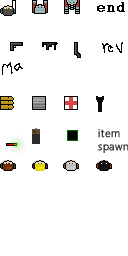
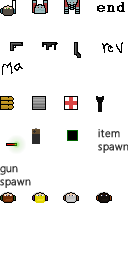
Added GunSpawn entity, tweaked item spawns

diff --git a/js/gunspawn.js b/js/gunspawn.js
@@ -1,23 +1,22 @@
-function ItemSpawn(x, y) {
+function GunSpawn(x, y) {
 	this.x = x;
 	this.y = y;
 	this.lastUpdate = 0;
-	this.spawnRate = 40;
+	this.spawnRate = 45;
 	Game.entities.push(this);
 }
 
-ItemSpawn.prototype.render = function() {
+GunSpawn.prototype.render = function() {
 
 };
 
-ItemSpawn.prototype.update = function() {
+GunSpawn.prototype.update = function() {
 	if ((this.lastUpdate - getCurrentMs()) < -this.spawnRate) {
 		var canSpawn = true;
 		for (var i = 0; i < Game.entities.length; i++) {
-			if (Game.entities[i] instanceof Item) {
-				if (!Game.entities[i].pickedUp) {
+			if (Game.entities[i] instanceof Gun) {
+				if (Game.entities[i].owner === null) {
 					if (new Point(this.x, this.y).getDist(new Point(Game.entities[i].x, Game.entities[i].y)) < 75) {
-						//No nearby items, clear to spawn an item
 						canSpawn = false;
 					}
 				}
@@ -25,19 +24,22 @@ ItemSpawn.prototype.update = function() {
 		}
 		var distToPlayer = new Point(Game.player.x, Game.player.y).getDist(new Point(this.x, this.y));
 		if (canSpawn && distToPlayer > 350) {
-			var rand = Math.floor(Math.random() * 4) + 1;
+			var rand = Math.floor(Math.random() * 6) + 1;
 			switch (rand) {
 				case 1:
-					new Item(this.x + 16, this.y + 16, 'healthpack');
+					new Gun(this.x + 16, this.y + 16, 'pistol');
 					break;
 				case 2:
-					new Item(this.x + 16, this.y + 16, 'ammopack');
+					new Gun(this.x + 16, this.y + 16, 'revolver');
 					break;
 				case 3:
-					new Item(this.x + 16, this.y + 16, 'batterypack');
+					new Gun(this.x + 16, this.y + 16, 'smg');
 					break;
 				case 4:
-					new Item(this.x + 16, this.y + 16, 'barricade');
+					new Gun(this.x + 16, this.y + 16, 'shotgun');
+					break;
+				case 5:
+					new Gun(this.x + 16, this.y + 16, 'machinegun');
 					break;
 			}
 		}

diff --git a/js/level.js b/js/level.js
@@ -92,16 +92,7 @@ function Level(num) {
 					new ItemSpawn(x * 32, y * 32);
 					break;
 				case 21:
-					new Npc(x * 32 + 16, y * 32 + 16, 1);
-					break;
-				case 22:
-					new Npc(x * 32 + 16, y * 32 + 16, 2);
-					break;
-				case 23:
-					new Npc(x * 32 + 16, y * 32 + 16, 3);
-					break;
-				case 24:
-					new Npc(x * 32 + 16, y * 32 + 16, 4);
+					new GunSpawn(x * 32, y * 32);
 					break;
 			}
 		}

diff --git a/js/flare.js b/js/flare.js
@@ -3,7 +3,7 @@ function Flare(x, y) {
 	this.y = y;
 	this.layer = 0;
 	this.sprite = new Sprite("images/flare.png", true);
-	new Light(this.x, this.y);
+	new Light(this.x - 16, this.y - 16);
 	Game.entities.push(this);
 }
 
